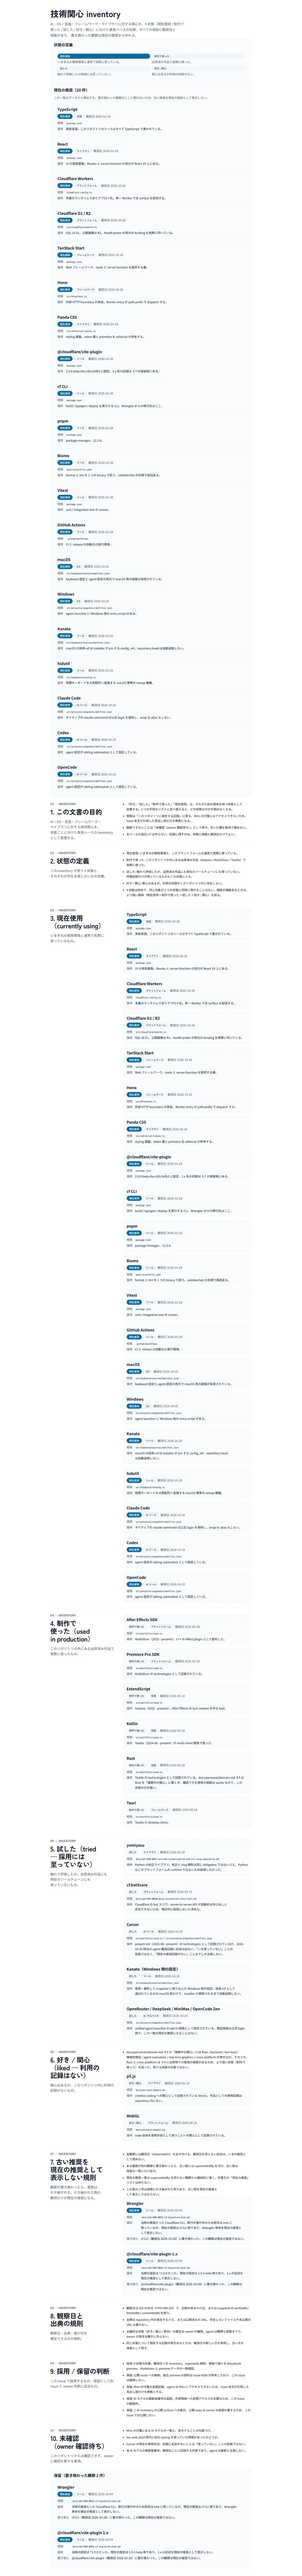
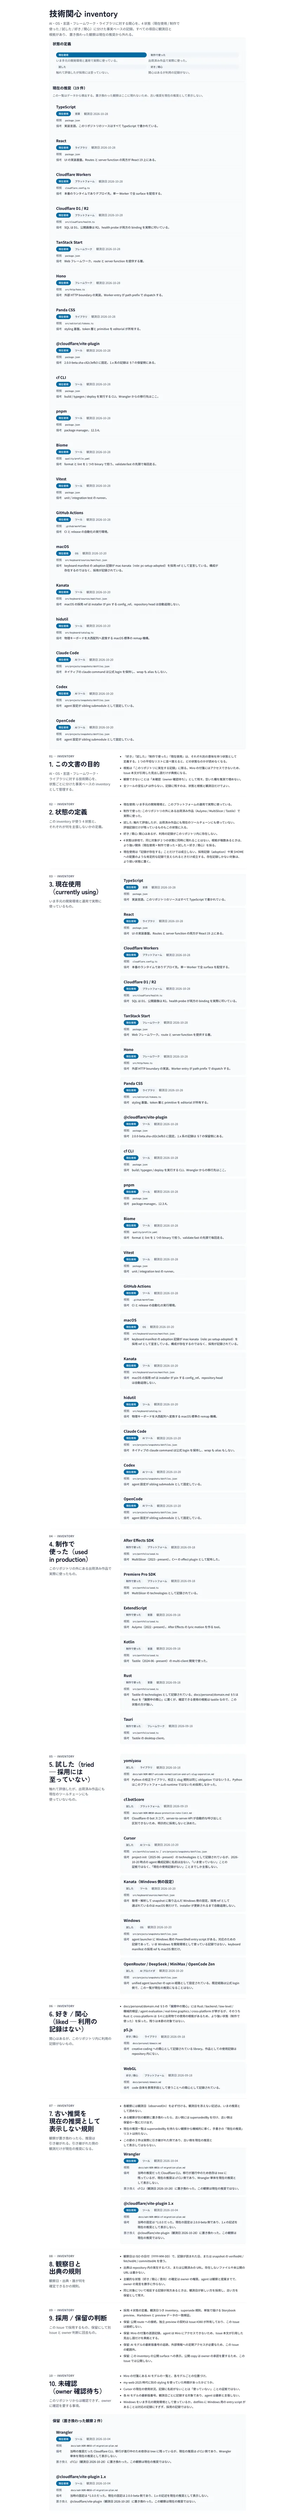
docs(influences): separate the Windows record from the adoption record
The inventory filed Windows under 「現在使用」 on the strength of a
PowerShell entry script in the dotfiles snapshot. That is a record of
*support for* the platform, not a record of it being the machine in use,
so the state asserted more than the evidence carried.

- `Windows` moves from 現在使用 to 試した. The entry now says what the
  record is and is not, and notes that the adopted keyboard ref is the
  macOS side
- `macOS` keeps 現在使用, but its note now points at the record that
  carries it — the manifest's `adoption` block naming `mac-kanata`
  (role `pc-setup-adopted`) — instead of at the mere existence of a
  macOS configuration
- §2 gains the rule the distinction needs: 現在使用 does not follow from
  a record existing; it needs a positive record (an adoption, a placement
  in the real $HOME)
- §10 records the open question for the owner: whether Windows is the
  current development environment
- the verification image is re-captured from the changed preview
  (840 x 7152 px, 286 kB) and the record's counts follow the data
  (現在の推奨 20 → 19, entry cards 57 → 56)

The artefact width moved 860 → 840 because the 860 px encode reached
99.8% of the 300 kB budget. Measured with this content: 1440 px → 671 kB,
900 px → 321 kB, 860 px → 300 kB (299.5 kB, over), 840 px → 286 kB.

diff --git a/src/personal/tech-interests/TechInterests.preview.ts b/src/personal/tech-interests/TechInterests.preview.ts
@@ -165,6 +165,7 @@ export const TECH_INTEREST_SECTIONS: readonly TechInterestSection[] = [
 			'試した: 触れて評価したが、出荷済み作品にも現在のツールチェーンにも使っていない。評価記録だけが残っているものもこの状態に入る。',
 			'好き / 関心: 関心はあるが、利用の記録がこのリポジトリ内に存在しない。',
 			'4 状態は排他で、同じ対象が 2 つの状態に同時に現れることはない。根拠が複数あるときは、より強い関係（現在使用 > 制作で使った > 試した > 好き / 関心）を採る。',
+			'現在使用は「記録が存在する」ことだけでは成立しない。採用記録（adoption）や実 $HOME への配置のような肯定的な記録で支えられるときだけ成立する。存在記録しかない対象は、より弱い状態に置く。',
 		],
 		entries: [],
 	},
@@ -298,16 +299,7 @@ export const TECH_INTEREST_SECTIONS: readonly TechInterestSection[] = [
 				state: 'currently-using',
 				observedOn: '2026-10-20',
 				evidence: 'src/keyboard/sources/manifest.json',
-				note: 'keyboard 設定と agent 設定の両方で macOS 用の経路が採用されている。',
-			},
-			{
-				id: 'windows',
-				name: 'Windows',
-				category: 'os',
-				state: 'currently-using',
-				observedOn: '2026-10-20',
-				evidence: 'src/projects/snapshots/dotfiles.json',
-				note: 'agent launcher に Windows 用の entry script がある。',
+				note: 'keyboard manifest の adoption 記録が mac-kanata（role: pc-setup-adopted）を採用 ref として宣言している。構成が存在するのではなく、採用が記録されている。',
 			},
 			{
 				id: 'kanata',
@@ -462,6 +454,15 @@ export const TECH_INTEREST_SECTIONS: readonly TechInterestSection[] = [
 				note: '取得・解析して snapshot に取り込んだ Windows 側の設定。採用 ref として選ばれているのは macOS 側だけで、installer が更新されるまで自動追随しない。',
 			},
 			{
+				id: 'windows',
+				name: 'Windows',
+				category: 'os',
+				state: 'tried',
+				observedOn: '2026-10-20',
+				evidence: 'src/projects/snapshots/dotfiles.json',
+				note: 'agent launcher に Windows 用の PowerShell entry script がある。対応のための記録であって、いま Windows を開発環境として使っている記録ではない。keyboard manifest の採用 ref も macOS 側だけ。',
+			},
+			{
 				id: 'opt-in-agent-providers',
 				name: 'OpenRouter / DeepSeek / MiniMax / OpenCode Zen',
 				category: 'ai-provider',
@@ -568,6 +569,7 @@ export const TECH_INTEREST_SECTIONS: readonly TechInterestSection[] = [
 			'my-web-2025 時代に別の styling を使っていた時期があったかどうか。',
 			'Cursor の現在の使用状況。記録に名前がないことは「使っていない」ことの証拠ではない。',
 			'各 AI モデルの最新版番号。観測日ごとに記録する対象であり、agent は最新と主張しない。',
+			'Windows をいま手元の開発環境として使っているか。dotfiles に Windows 用の entry script があることは対応の記録にすぎず、採用の記録ではない。',
 		],
 		entries: [],
 	},

diff --git a/docs/verification/influences/tech-interests-preview.md b/docs/verification/influences/tech-interests-preview.md
@@ -12,18 +12,18 @@
 | 描画対象 | `src/personal/tech-interests/TechInterests.stories.tsx` の `Default` story（story 自身の `render:` が返すツリーをそのまま描画） |
 | capture 手段 | `node scripts/capture-tech-interests.mjs`（`.tmp/` に Vite harness を生成 → loopback 配信 → Playwright Chromium → `sharp` で WebP 化） |
 | 描画 CSS | リポジトリの Panda 設定（`postcss.config.mjs` → `panda.config.ts`）を harness の Vite build に渡したもの。すなわち実際の `src/styles.css` |
-| viewport / DPR | 1440 x 900 / 1（`fullPage` 撮影。描画後のページ高は 12245 CSS px） |
-| 生成物サイズ | 860 x 7313 px、**290 kB** WebP（quality 80、budget 300 kB） |
+| viewport / DPR | 1440 x 900 / 1（`fullPage` 撮影。描画後のページ高は 12260 CSS px） |
+| 生成物サイズ | 840 x 7152 px、**286 kB** WebP（quality 80、budget 300 kB） |
 | 画的範囲 | **ページ全体**（切り抜きはしていない。§3 の gate は DOM 全体を見るので、画像の画素数と検証範囲は一致しない） |
 | 再現性 | **encode 段は決定的、ブラウザ撮影は byte 再現ではない**（プロセス間でも差が出る）。再生成は視覚的に同一であることを目標とする |
 | 本番非破壊 | 既定で外部通信なし。local harness build と loopback 配信のみ。deploy / remote binding / secret 値の読み出しは無い |
 
-### なぜ 860 px 幅なのか（budget に対して）
+### なぜ 840 px 幅なのか（budget に対して）
 
-1440 px の viewport でページ全体を描いて 1440 px 幅のまま WebP 化すると **budget を超える**（実測 900 px 幅で 312 kB、budget 300 kB）。budget は上げない。
+1440 px の viewport でページ全体を描いて 1440 px 幅のまま WebP 化すると **budget を超える**（実測 1440 px 幅で 671 kB、900 px 幅で 321 kB、budget 300 kB）。budget は上げない。
 
 - viewport を狭めても解決しない。content span は `Container`（`maxWidth: 1024px`）で上限を持つため、viewport を狭めても本文の幅は 1024 px のままで、**文書は長くなる**。WebP の size は本文の画素数でほぼ決まるので、狭い viewport は容量の節約にならない。
-- そこで **画像の画素数を絞る** 方を選んだ。1440 px viewport で描いた full-page PNG を 860 px 幅へ downsample して符号化すると、**画面の全体**が 290 kB に収まる（本文の 16 px は約 9.5 px になる。viewer で拡大すれば読める）。
+- そこで **画像の画素数を絞る** 方を選んだ。1440 px viewport で描いた full-page PNG を 840 px 幅へ downsample して符号化すると、**画面の全体**が 286 kB に収まる（本文の 16 px は約 9.3 px になる。viewer で拡大すれば読める）。
 
 つまり「画面を一部だけ撮る」のではなく「**画面全体を、budget に収まる倍率で**撮る」選択である。assertion（§3）は画像の画素数に依らず DOM 全体を見るので、文書の途中が欠けていても capture は落ちる。
 
@@ -45,14 +45,16 @@ capture は長-lived な dev server に依存しないため `.tmp/` に Vite ha
 
 1. **document title** — `技術関心 inventory`。
 2. **状態の定義** — 4 状態の凡例（`現在使用` / `制作で使った` / `試した` / `好き / 関心`）。
-3. **現在の推奨（20 件）** — `CURRENT_RECOMMENDATIONS` から導出した一覧。
+3. **現在の推奨（19 件）** — `CURRENT_RECOMMENDATIONS` から導出した一覧。
 4. **10 個の section** — 見出しは `TECH_INTEREST_SECTIONS[].heading` と一致する（§3 の gate が集合と順序を固定する）。
 5. **各 section の summary** — 記録の `##` 直後の段落。
 6. **各 section の point** — 記録の箇条書きそのもの。
 7. **35 件の entry card（section 側）** — 名前、状態ラベル、カテゴリラベル、観測日、根拠、備考。
 8. **保留（置き換わった観察 2 件）** — `SUPERSEDED_OBSERVATIONS` と、それを置き換えた観察。
 
-`現在使用` の 20 件は §3 の `現在の推奨` 一覧にも同じ形で並ぶため、画面に現れる entry card は section 側 35 件 + current 側 20 件 + held 側 2 件 = 57 枚になる。これは重複であって欠落ではない（現在の推奨は「置き換わっていない `現在使用` の観察」というデータから導出された別の一覧である）。
+`現在使用` の 19 件は §3 の `現在の推奨` 一覧にも同じ形で並ぶため、画面に現れる entry card は section 側 35 件 + current 側 19 件 + held 側 2 件 = 56 枚になる。これは重複であって欠落ではない（現在の推奨は「置き換わっていない `現在使用` の観察」というデータから導出された別の一覧である）。
+
+この artefact は `Windows` の状態を `現在使用` から `試した` に直したあとの preview を撮ったものである（対応の記録と採用の記録の区別は `docs/influences/tech-interests.md` §2 / §5 / §10）。
 
 ## 3. 機械で検証した項目
 
@@ -66,7 +68,7 @@ capture は長-lived な dev server に依存しないため `.tmp/` に Vite ha
 | section point | 各 section の `<li>` に preview データの `points` がすべて含まれる |
 | entry | 各 section の entry が `name` / 状態ラベル `INTEREST_STATE_LABELS[state]` / カテゴリラベル `INTEREST_CATEGORY_LABELS[category]` / 観測日 `observedOn` を描画している |
 | entry の過不足 | section に preview データにない entry が混ざっていない |
-| 現在の推奨 | 見出しが `現在の推奨（20 件）`、render された entry 数が `CURRENT_RECOMMENDATIONS.length` と一致、各 entry の名前・状態ラベル・観測日が一致 |
+| 現在の推奨 | 見出しが `現在の推奨（19 件）`、render された entry 数が `CURRENT_RECOMMENDATIONS.length` と一致、各 entry の名前・状態ラベル・観測日が一致 |
 | 保留 | 見出しが `保留（置き換わった観察 2 件）`、render された entry 数が `SUPERSEDED_OBSERVATIONS.length` と一致、各 entry の名前・観測日が一致 |
 | 置き換わった観察の隔離 | 保留の entry が `現在の推奨` 側に現れない（`Wrangler` / `@cloudflare/vite-plugin 1.x` が current に出ない） |
 | inventory 全体 | `TECH_INTEREST_ENTRIES` の全 35 件が、いずれかの section に名前・状態ラベル・観測日つきで render されている |
@@ -99,8 +101,8 @@ capture script は `package.json` に登録していない（並列 PR の confl
 - 記録の**文言**が正しいか、状態の判定が妥当か（機械的には「preview データがそのまま描画されている」ことしか確認していない）。
 - 10 個の section の並びが**読み順**として自然か。
 - 4 状態の定義が、実際の関心と合っているか。
-- `現在の推奨` に含まれる 20 件が、記録上の「いま使っている」と称してよいか。
-- artifact の 860 px 幅の縮小が、レビュー時に読みやすさとして妥当か。
+- `現在の推奨` に含まれる 19 件が、記録上の「いま使っている」と称してよいか。
+- artifact の 840 px 幅の縮小が、レビュー時に読みやすさとして妥当か。
 
 ## 7. 残存の未決事項
 
